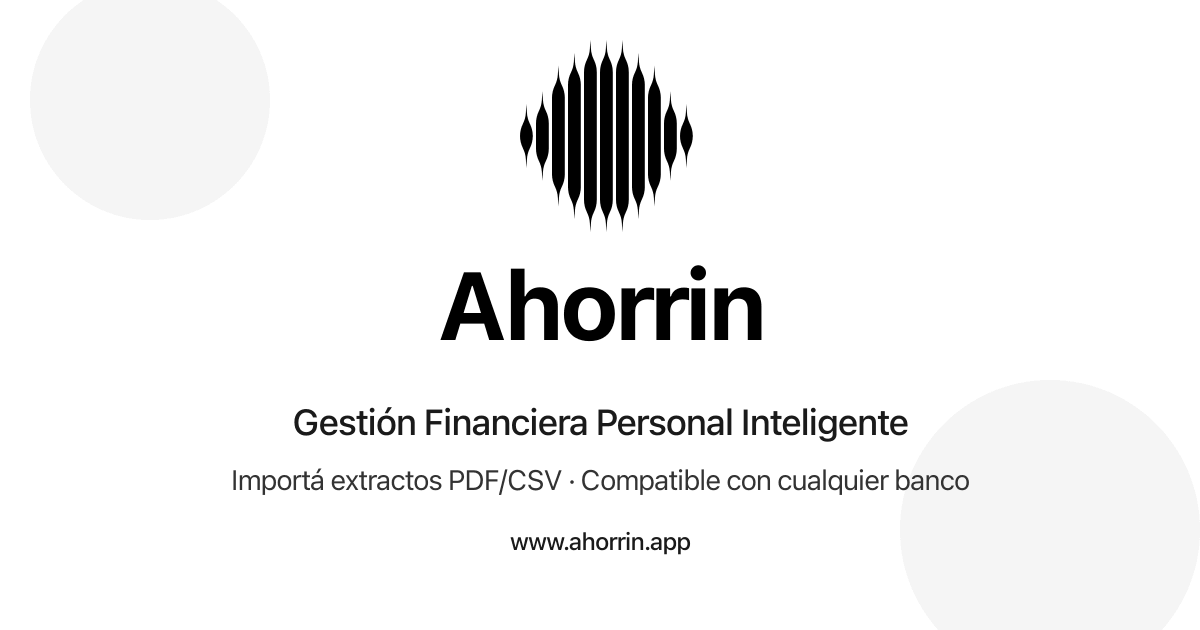
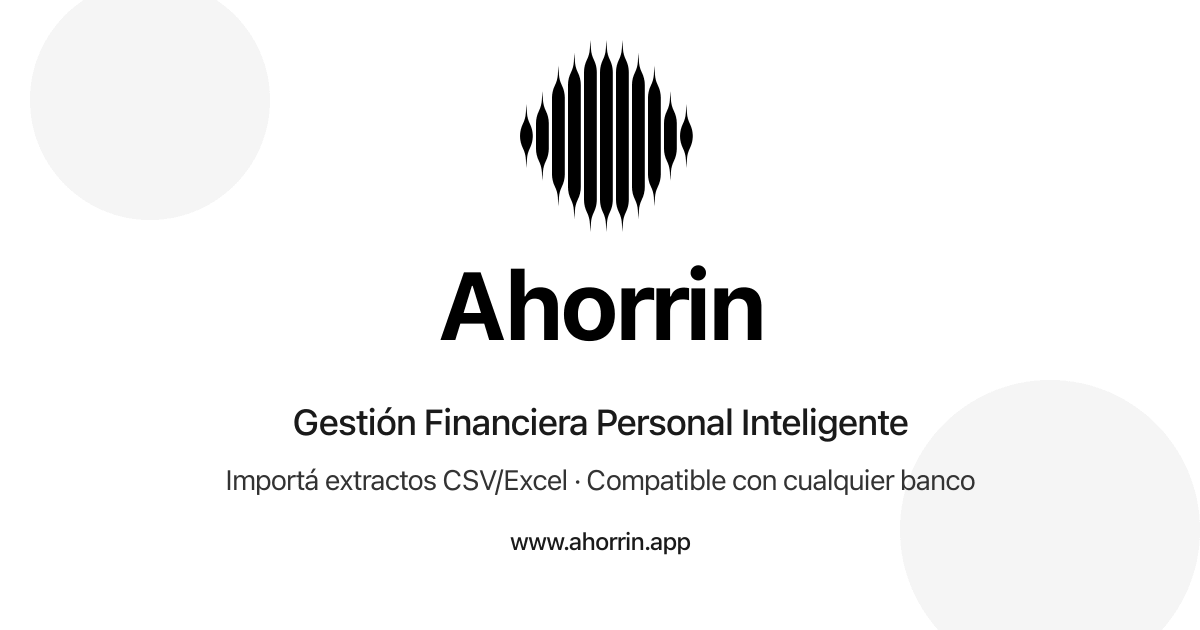
refactor: Eliminar menciones de PDF en landing pages
Cambios:
- OG image: "PDF/CSV" → "CSV/Excel"
- Landing pages bancarias: Todas las menciones de PDF reemplazadas
  - "PDF o Excel" → "CSV/Excel"
  - "PDF y Excel" → "CSV/Excel"
  - "Extracto PDF" → "Extracto CSV/Excel"

Archivos actualizados:
- public/og-image.svg
- public/og-image.png
- app/brou/page.tsx
- app/santander/page.tsx
- app/heritage/page.tsx
- app/scotiabank/page.tsx
- app/itau/page.tsx
- app/bbva/page.tsx

Razón: Simplificar el mensaje y enfocarse en CSV/Excel como formatos principales.

🤖 Generated with [Claude Code](https://claude.com/claude-code)

Changed region(s): [[0.185, 0.7238, 0.8325, 0.7841]]

diff --git a/app/bbva/page.tsx b/app/bbva/page.tsx
@@ -5,7 +5,7 @@ import { Check, FileUp, Sparkles, TrendingUp, Shield, Zap } from 'lucide-react';
 export const metadata: Metadata = {
   title: 'BBVA Uruguay - Importá y Categorizá tus Extractos Automáticamente',
   description:
-    'Importá tus extractos bancarios de BBVA Uruguay a Ahorrin. Categorización automática, análisis de gastos en tiempo real. Compatible con extractos PDF y Excel del BBVA.',
+    'Importá tus extractos bancarios de BBVA Uruguay a Ahorrin. Categorización automática, análisis de gastos en tiempo real. Compatible con extractos CSV/Excel del BBVA.',
   keywords: [
     'extracto bancario bbva uruguay',
     'bbva uruguay',
@@ -88,7 +88,7 @@ export default function BBVAPage() {
                     </div>
                     <div>
                       <div className="font-bold text-lg">1. Subí tu extracto</div>
-                      <div className="text-white/70 text-sm">PDF o Excel de BBVA</div>
+                      <div className="text-white/70 text-sm">CSV/Excel de BBVA</div>
                     </div>
                   </div>
                   <div className="flex items-center gap-3">
@@ -142,7 +142,7 @@ export default function BBVAPage() {
                   <li>Ingresá a tu Home Banking de BBVA</li>
                   <li>Seleccioná "Consultas" → "Extractos"</li>
                   <li>Elegí el período (último mes, trimestre, etc.)</li>
-                  <li>Descargá en formato PDF o Excel</li>
+                  <li>Descargá en formato CSV/Excel</li>
                 </ol>
               </div>
             </div>
@@ -229,7 +229,7 @@ export default function BBVAPage() {
               </div>
               <h3 className="text-xl font-bold mb-3">Reconocimiento Automático</h3>
               <p className="text-muted-foreground">
-                Detectamos automáticamente el formato de BBVA Uruguay (PDF y Excel). Solo subís el
+                Detectamos automáticamente el formato de BBVA Uruguay (CSV/Excel). Solo subís el
                 archivo y listo.
               </p>
             </div>
@@ -306,7 +306,7 @@ export default function BBVAPage() {
                 <span className="group-open:rotate-180 transition-transform">▼</span>
               </summary>
               <p className="text-muted-foreground mt-4">
-                Ahorrin acepta extractos de BBVA Uruguay en formato PDF y Excel (.xlsx). Ambos
+                Ahorrin acepta extractos de BBVA Uruguay en formato CSV/Excel (.xlsx). Ambos
                 formatos son descargables desde el Home Banking de BBVA Net Cash.
               </p>
             </details>
@@ -406,7 +406,7 @@ export default function BBVAPage() {
                 priceCurrency: 'UYU',
               },
               featureList: [
-                'Importación de extractos BBVA PDF y Excel',
+                'Importación de extractos BBVA CSV/Excel',
                 'Categorización automática con IA',
                 'Dashboard en tiempo real',
                 'Multi-moneda (UYU, USD)',

diff --git a/app/santander/page.tsx b/app/santander/page.tsx
@@ -89,7 +89,7 @@ export default function SantanderPage() {
                     </div>
                     <div>
                       <div className="font-bold text-lg">1. Descargá de e-Santander</div>
-                      <div className="text-white/70 text-sm">Extracto PDF o Excel</div>
+                      <div className="text-white/70 text-sm">Extracto CSV/Excel</div>
                     </div>
                   </div>
                   <div className="flex items-center gap-3">
@@ -141,7 +141,7 @@ export default function SantanderPage() {
                   <li>Ingresá a www.santander.com.uy</li>
                   <li>Andá a "Extracto" o "Movimientos"</li>
                   <li>Seleccioná el período a analizar</li>
-                  <li>Descargá en PDF o Excel</li>
+                  <li>Descargá en CSV/Excel</li>
                 </ol>
               </div>
             </div>
@@ -224,7 +224,7 @@ export default function SantanderPage() {
               </div>
               <h3 className="text-xl font-bold mb-3">Formato Santander Nativo</h3>
               <p className="text-muted-foreground">
-                Detectamos y procesamos extractos de Santander Uruguay automáticamente. PDF y Excel completamente soportados desde e-Santander.
+                Detectamos y procesamos extractos de Santander Uruguay automáticamente. CSV/Excel completamente soportados desde e-Santander.
               </p>
             </div>
 
@@ -295,7 +295,7 @@ export default function SantanderPage() {
                 <span className="group-open:rotate-180 transition-transform">▼</span>
               </summary>
               <p className="text-muted-foreground mt-4">
-                Ingresá a www.santander.com.uy → e-Santander → Seleccioná tu cuenta → Andá a "Extracto" o "Movimientos" → Elegí el período → Descargá en PDF o Excel. El archivo se guarda en tu carpeta de Descargas.
+                Ingresá a www.santander.com.uy → e-Santander → Seleccioná tu cuenta → Andá a "Extracto" o "Movimientos" → Elegí el período → Descargá en CSV/Excel. El archivo se guarda en tu carpeta de Descargas.
               </p>
             </details>
 

diff --git a/app/heritage/page.tsx b/app/heritage/page.tsx
@@ -89,7 +89,7 @@ export default function HeritagePage() {
                     </div>
                     <div>
                       <div className="font-bold text-lg">1. Descargá de e-Heritage</div>
-                      <div className="text-white/70 text-sm">Extracto PDF o Excel</div>
+                      <div className="text-white/70 text-sm">Extracto CSV/Excel</div>
                     </div>
                   </div>
                   <div className="flex items-center gap-3">
@@ -141,7 +141,7 @@ export default function HeritagePage() {
                   <li>Ingresá a www.heritage.com.uy</li>
                   <li>Andá a "Extracto" o "Movimientos"</li>
                   <li>Seleccioná el período a analizar</li>
-                  <li>Descargá en PDF o Excel</li>
+                  <li>Descargá en CSV/Excel</li>
                 </ol>
               </div>
             </div>
@@ -224,7 +224,7 @@ export default function HeritagePage() {
               </div>
               <h3 className="text-xl font-bold mb-3">Formato Heritage Nativo</h3>
               <p className="text-muted-foreground">
-                Detectamos y procesamos extractos de Heritage Uruguay automáticamente. PDF y Excel completamente soportados desde e-Heritage.
+                Detectamos y procesamos extractos de Heritage Uruguay automáticamente. CSV/Excel completamente soportados desde e-Heritage.
               </p>
             </div>
 
@@ -295,7 +295,7 @@ export default function HeritagePage() {
                 <span className="group-open:rotate-180 transition-transform">▼</span>
               </summary>
               <p className="text-muted-foreground mt-4">
-                Ingresá a www.heritage.com.uy → e-Heritage → Seleccioná tu cuenta → Andá a "Extracto" o "Movimientos" → Elegí el período → Descargá en PDF o Excel. El archivo se guarda en tu carpeta de Descargas.
+                Ingresá a www.heritage.com.uy → e-Heritage → Seleccioná tu cuenta → Andá a "Extracto" o "Movimientos" → Elegí el período → Descargá en CSV/Excel. El archivo se guarda en tu carpeta de Descargas.
               </p>
             </details>
 

diff --git a/app/itau/page.tsx b/app/itau/page.tsx
@@ -87,7 +87,7 @@ export default function ItauPage() {
                     </div>
                     <div>
                       <div className="font-bold text-lg">1. Descargá de Mi Banco Digital</div>
-                      <div className="text-white/70 text-sm">Extracto PDF o Excel</div>
+                      <div className="text-white/70 text-sm">Extracto CSV/Excel</div>
                     </div>
                   </div>
                   <div className="flex items-center gap-3">
@@ -139,7 +139,7 @@ export default function ItauPage() {
                   <li>Ingresá a www.itau.com.uy</li>
                   <li>Andá a "Extracto" o "Movimientos"</li>
                   <li>Seleccioná el período a analizar</li>
-                  <li>Descargá en PDF o Excel</li>
+                  <li>Descargá en CSV/Excel</li>
                 </ol>
               </div>
             </div>
@@ -222,7 +222,7 @@ export default function ItauPage() {
               </div>
               <h3 className="text-xl font-bold mb-3">Formato Itaú Nativo</h3>
               <p className="text-muted-foreground">
-                Detectamos y procesamos extractos de Itaú Uruguay automáticamente. PDF y Excel completamente soportados desde Mi Banco Digital.
+                Detectamos y procesamos extractos de Itaú Uruguay automáticamente. CSV/Excel completamente soportados desde Mi Banco Digital.
               </p>
             </div>
 
@@ -293,7 +293,7 @@ export default function ItauPage() {
                 <span className="group-open:rotate-180 transition-transform">▼</span>
               </summary>
               <p className="text-muted-foreground mt-4">
-                Ingresá a www.itau.com.uy → Mi Banco Digital → Seleccioná tu cuenta → Andá a "Extracto" o "Movimientos" → Elegí el período → Descargá en PDF o Excel. El archivo se guarda en tu carpeta de Descargas.
+                Ingresá a www.itau.com.uy → Mi Banco Digital → Seleccioná tu cuenta → Andá a "Extracto" o "Movimientos" → Elegí el período → Descargá en CSV/Excel. El archivo se guarda en tu carpeta de Descargas.
               </p>
             </details>
 

diff --git a/app/brou/page.tsx b/app/brou/page.tsx
@@ -89,7 +89,7 @@ export default function BROUPage() {
                     </div>
                     <div>
                       <div className="font-bold text-lg">1. Descargá de e-BROU</div>
-                      <div className="text-white/70 text-sm">Extracto PDF o Excel</div>
+                      <div className="text-white/70 text-sm">Extracto CSV/Excel</div>
                     </div>
                   </div>
                   <div className="flex items-center gap-3">
@@ -141,7 +141,7 @@ export default function BROUPage() {
                   <li>Ingresá a www.brou.com.uy</li>
                   <li>Andá a "Extracto" o "Movimientos"</li>
                   <li>Seleccioná el período a analizar</li>
-                  <li>Descargá en PDF o Excel</li>
+                  <li>Descargá en CSV/Excel</li>
                 </ol>
               </div>
             </div>
@@ -224,7 +224,7 @@ export default function BROUPage() {
               </div>
               <h3 className="text-xl font-bold mb-3">Formato BROU Nativo</h3>
               <p className="text-muted-foreground">
-                Detectamos y procesamos extractos de BROU Uruguay automáticamente. PDF y Excel completamente soportados desde e-BROU.
+                Detectamos y procesamos extractos de BROU Uruguay automáticamente. CSV/Excel completamente soportados desde e-BROU.
               </p>
             </div>
 
@@ -295,7 +295,7 @@ export default function BROUPage() {
                 <span className="group-open:rotate-180 transition-transform">▼</span>
               </summary>
               <p className="text-muted-foreground mt-4">
-                Ingresá a www.brou.com.uy → e-BROU → Seleccioná tu cuenta → Andá a "Extracto" o "Movimientos" → Elegí el período → Descargá en PDF o Excel. El archivo se guarda en tu carpeta de Descargas.
+                Ingresá a www.brou.com.uy → e-BROU → Seleccioná tu cuenta → Andá a "Extracto" o "Movimientos" → Elegí el período → Descargá en CSV/Excel. El archivo se guarda en tu carpeta de Descargas.
               </p>
             </details>
 

diff --git a/app/scotiabank/page.tsx b/app/scotiabank/page.tsx
@@ -87,7 +87,7 @@ export default function ScotiabankPage() {
                     </div>
                     <div>
                       <div className="font-bold text-lg">1. Descargá desde Scotia Online</div>
-                      <div className="text-white/70 text-sm">PDF o Excel</div>
+                      <div className="text-white/70 text-sm">CSV/Excel</div>
                     </div>
                   </div>
                   <div className="flex items-center gap-3">
